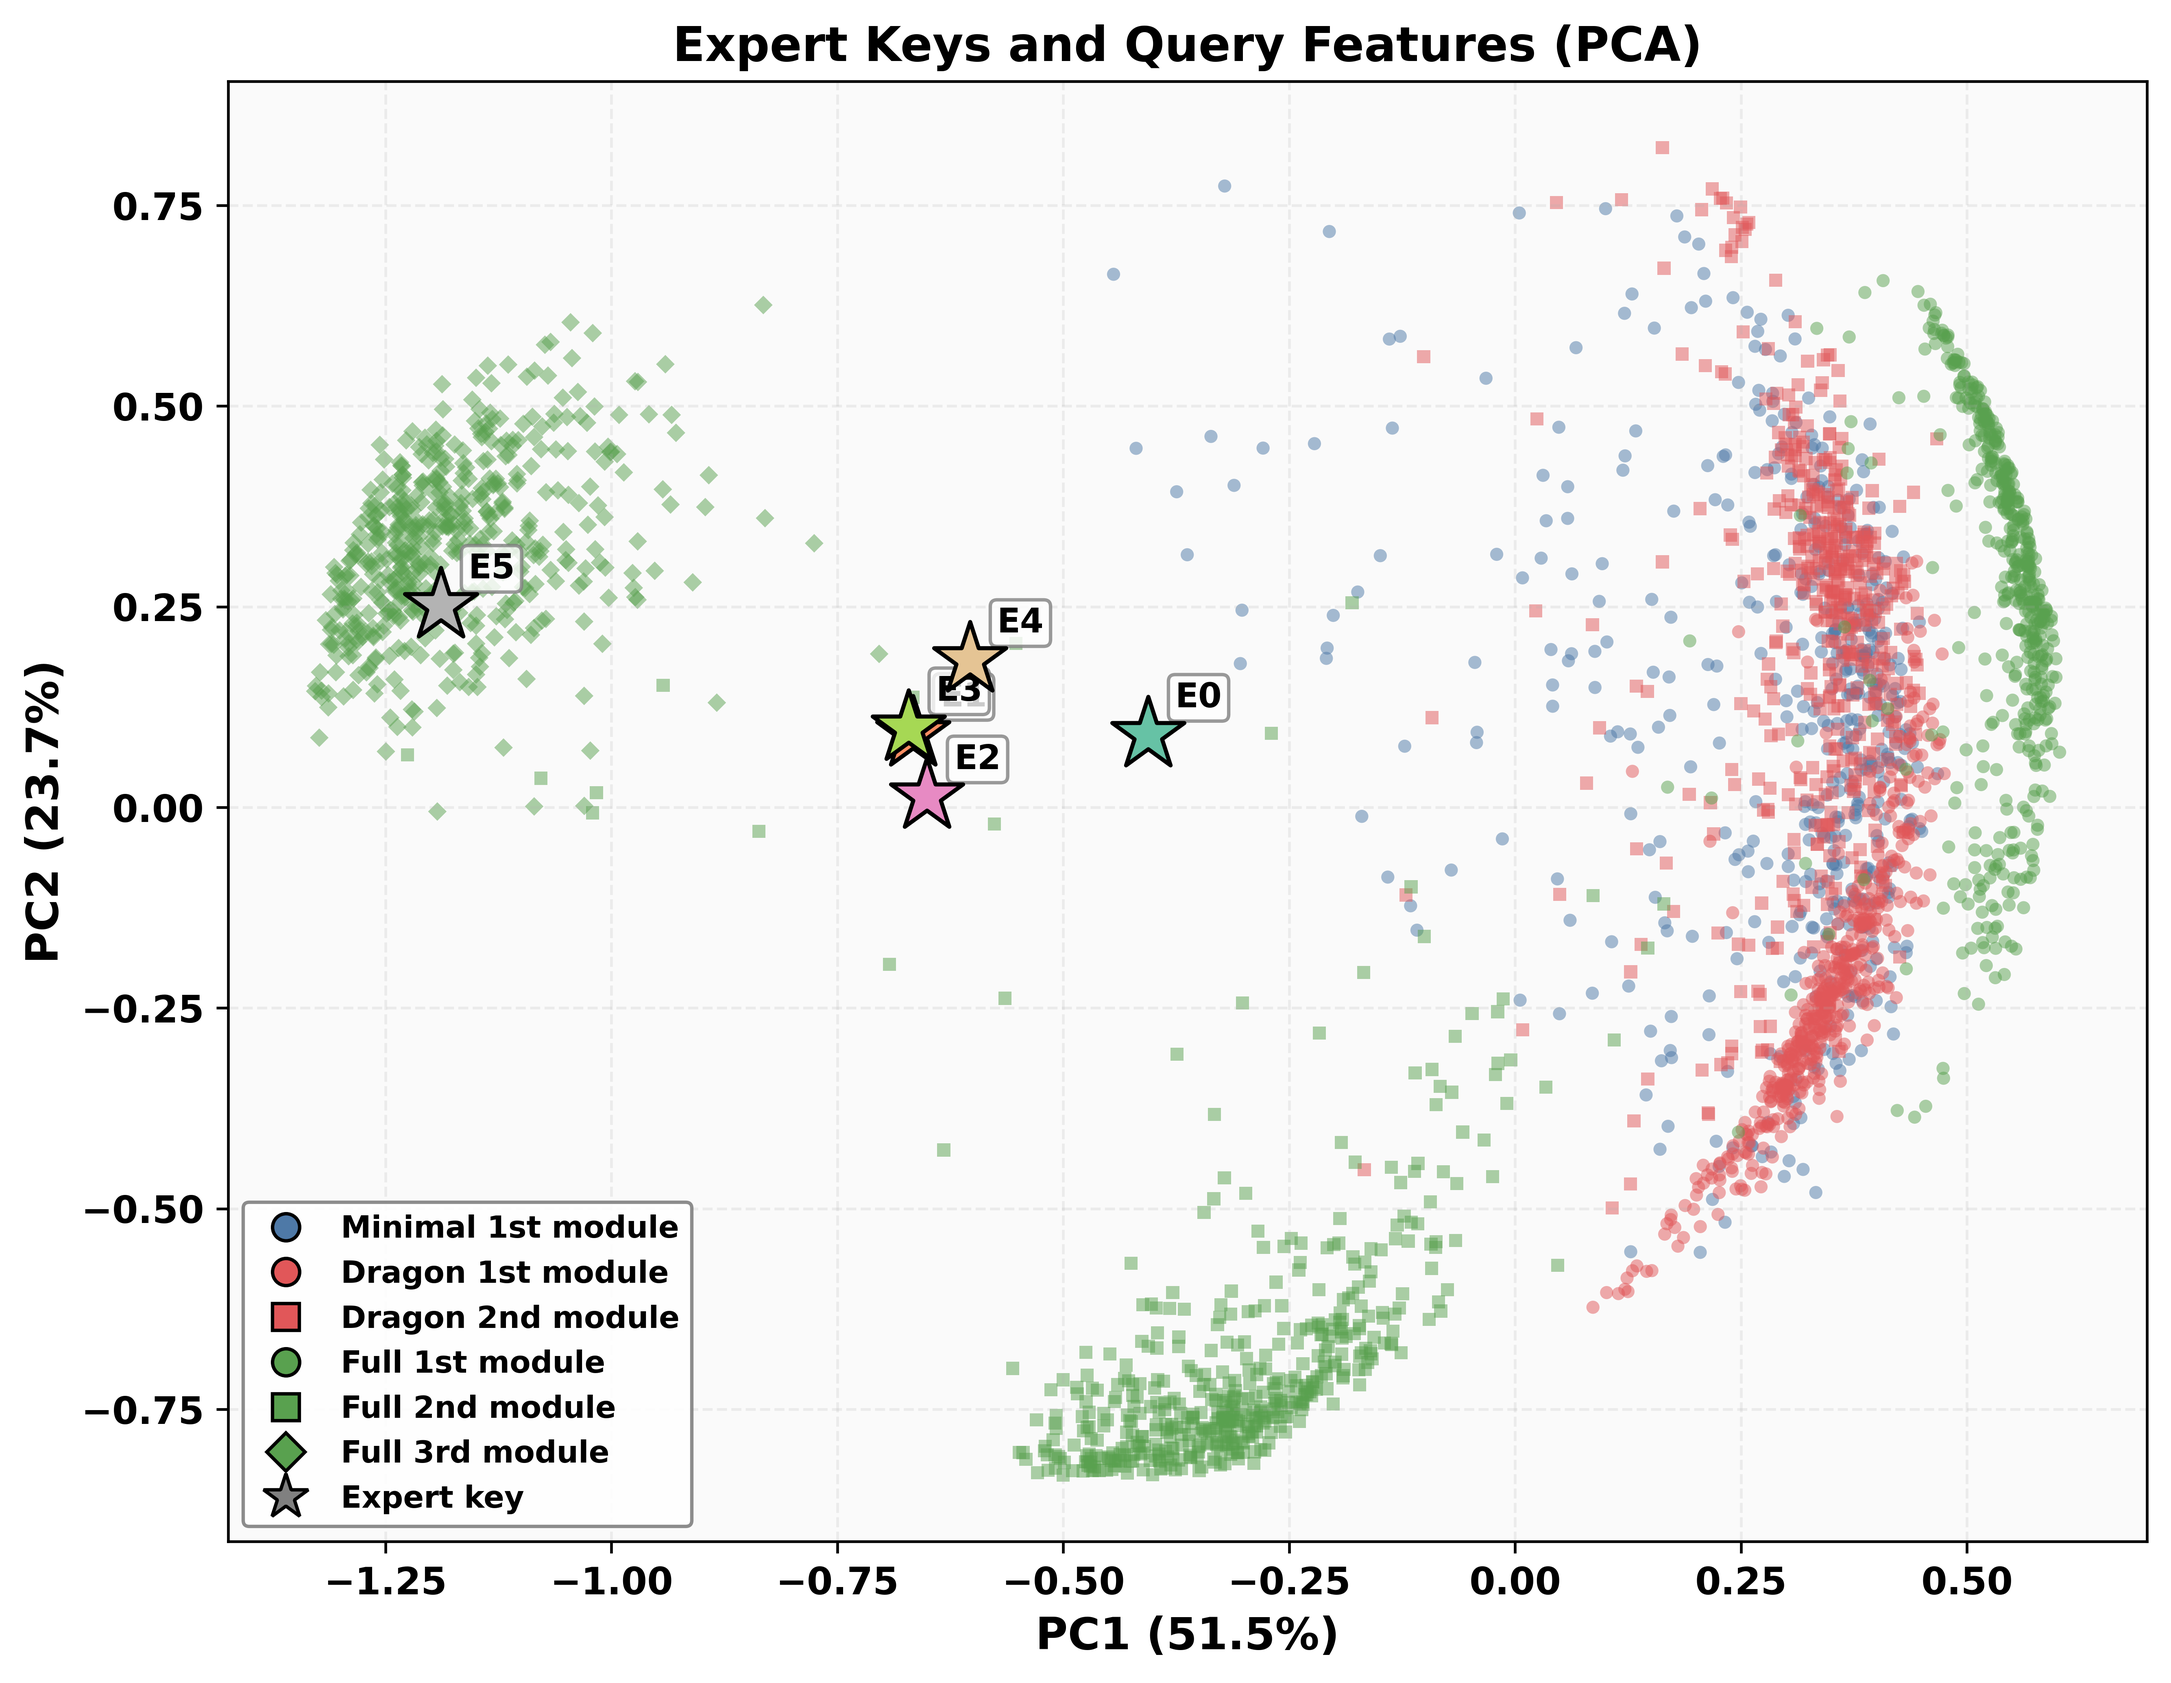
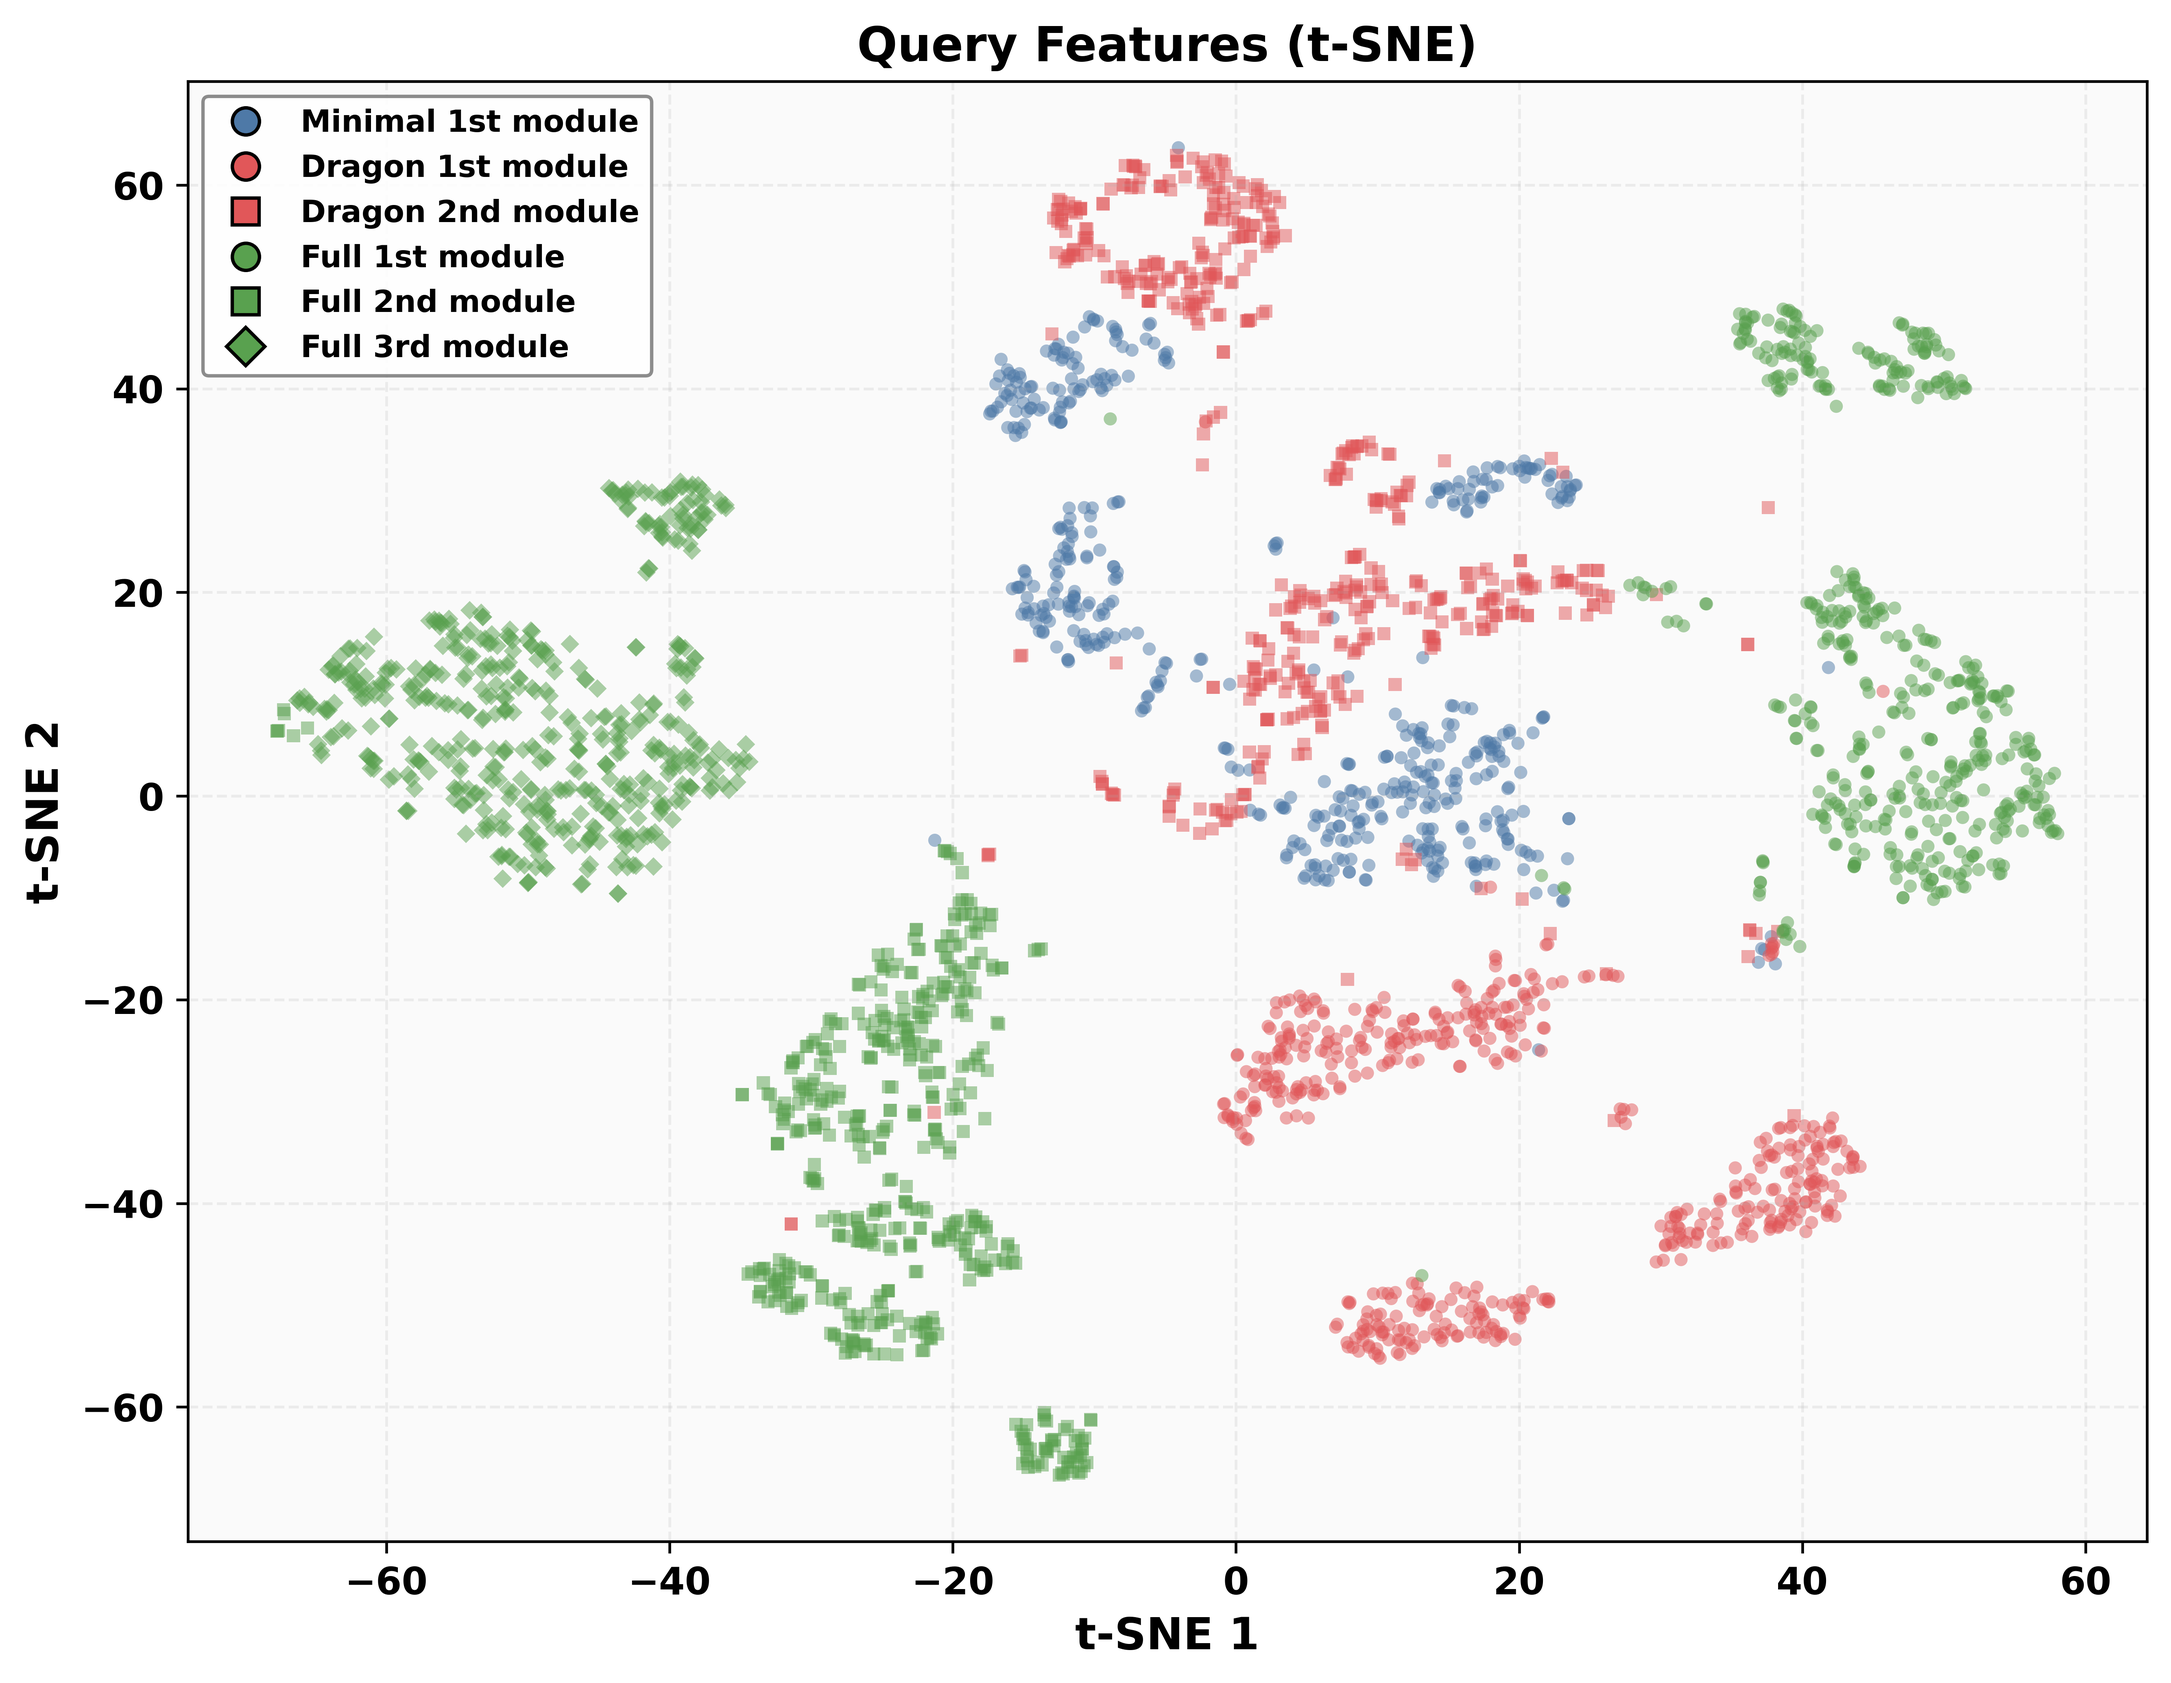
Upload img.

diff --git a/M2oE/scripts/play_key_query_pca.py b/M2oE/scripts/play_key_query_pca.py
@@ -35,7 +35,7 @@ matplotlib.use("Agg")
 import gymnasium as gym
 import matplotlib.pyplot as plt
 import torch
-from sklearn.decomposition import PCA
+from sklearn.manifold import TSNE
 
 plt.rcParams["font.weight"] = "bold"
 plt.rcParams["axes.labelweight"] = "bold"
@@ -184,10 +184,6 @@ def main():
     env.close()
 
     # --- Gather data ---
-    # Expert keys (L2 normalized, same as gating mechanism)
-    expert_keys = torch.nn.functional.normalize(gate_module.expert_keys.data, dim=-1).cpu().numpy()
-    num_experts = expert_keys.shape[0]
-
     # Subsample queries per module
     query_arrays: dict[tuple[int, int], np.ndarray] = {}
     for key, tensors in query_store.items():
@@ -199,21 +195,18 @@ def main():
             cat = cat[indices]
         query_arrays[key] = cat
 
-    # Fit PCA on query features only, then project expert keys with the same transform
+    # Stack all queries for t-SNE
     all_queries = np.concatenate([query_arrays[k] for k in sorted(query_arrays.keys())], axis=0)
-    pca = PCA(n_components=2)
-    pca.fit(all_queries)
+    tsne = TSNE(n_components=2, perplexity=30, random_state=42, init="pca", learning_rate="auto")
+    projected = tsne.fit_transform(all_queries)
 
-    # Project queries
+    # Split back
     offset = 0
     query_proj: dict[tuple[int, int], np.ndarray] = {}
     for key in sorted(query_arrays.keys()):
         n = query_arrays[key].shape[0]
-        query_proj[key] = pca.transform(query_arrays[key])
+        query_proj[key] = projected[offset : offset + n]
         offset += n
-
-    # Project expert keys using the same PCA
-    expert_proj = pca.transform(expert_keys)
 
     # --- Plot ---
     morph_short_names = ["Minimal", "Dragon", "Full"]
@@ -239,31 +232,7 @@ def main():
             edgecolors="none",
         )
 
-    # Plot expert keys with prominent markers
-    expert_cmap = plt.cm.Set2  # type: ignore
-    for i in range(num_experts):
-        color = expert_cmap(i / max(num_experts - 1, 1))
-        ax.scatter(
-            expert_proj[i, 0],
-            expert_proj[i, 1],
-            c=[color],
-            marker="*",
-            s=500,
-            zorder=10,
-            edgecolors="black",
-            linewidths=1.2,
-        )
-        ax.annotate(
-            f"E{i}",
-            (expert_proj[i, 0], expert_proj[i, 1]),
-            textcoords="offset points",
-            xytext=(8, 8),
-            fontsize=10,
-            fontweight="bold",
-            bbox=dict(boxstyle="round,pad=0.2", fc="white", ec="gray", alpha=0.8),
-        )
-
-    # 5) Build clean legend
+    # Build legend
     from matplotlib.lines import Line2D
     legend_handles = []
     for (morph_idx, mod_idx) in sorted(query_proj.keys()):
@@ -277,15 +246,6 @@ def main():
             markersize=8,
             label=f"{morph_short_names[morph_idx]} {mod_idx+1}{num_suffix[mod_idx]} module",
         ))
-    legend_handles.append(Line2D(
-        [0], [0],
-        marker="*",
-        color="none",
-        markerfacecolor="gray",
-        markeredgecolor="black",
-        markersize=14,
-        label="Expert key",
-    ))
 
     legend = ax.legend(
         handles=legend_handles,
@@ -297,9 +257,9 @@ def main():
     for text in legend.get_texts():
         text.set_fontweight("bold")
 
-    ax.set_xlabel(f"PC1 ({pca.explained_variance_ratio_[0]*100:.1f}%)", fontsize=13, fontweight="bold")
-    ax.set_ylabel(f"PC2 ({pca.explained_variance_ratio_[1]*100:.1f}%)", fontsize=13, fontweight="bold")
-    ax.set_title("Expert Keys and Query Features (PCA)", fontsize=14, fontweight="bold")
+    ax.set_xlabel("t-SNE 1", fontsize=13, fontweight="bold")
+    ax.set_ylabel("t-SNE 2", fontsize=13, fontweight="bold")
+    ax.set_title("Query Features (t-SNE)", fontsize=14, fontweight="bold")
 
     ax.tick_params(labelsize=11)
     for label in ax.get_xticklabels() + ax.get_yticklabels():
